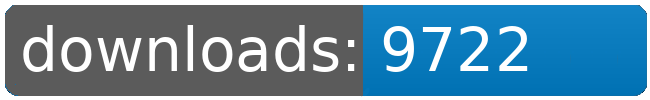
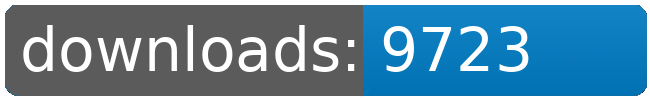
dl log written

Changed region(s): [[0.7692, 0.42, 0.8308, 0.72], [0.7692, 0.27, 0.8308, 0.39]]

diff --git a/README.md b/README.md
@@ -43,8 +43,8 @@
 		<td>9695</td>
 		<td>9704</td>
 		<td>9713</td>
-		<td>9722</td>
-		<td>+ 9</td>
+		<td>9723</td>
+		<td>+ 10</td>
 	</tr>
 	<tr>
 		<td>Fundamental.Outfit.Expansion.Alien</td>
@@ -153,8 +153,8 @@
 		<td></td>
 		<td></td>
 		<td></td>
-		<td>68782</td>
-		<td>42</td>
+		<td>68783</td>
+		<td>43</td>
 	</tr>
 </table>
 </sub></sup>
@@ -179,8 +179,8 @@
 		<td>9695</td>
 		<td>9704</td>
 		<td>9713</td>
-		<td>9722</td>
-		<td>+ 9</td>
+		<td>9723</td>
+		<td>+ 10</td>
 	</tr>
 	<tr>
 		<td>Bunsen.Burner</td>
@@ -311,8 +311,8 @@
 		<td></td>
 		<td></td>
 		<td></td>
-		<td>68782</td>
-		<td>42</td>
+		<td>68783</td>
+		<td>43</td>
 	</tr>
 </table>
 </sub></sup>
